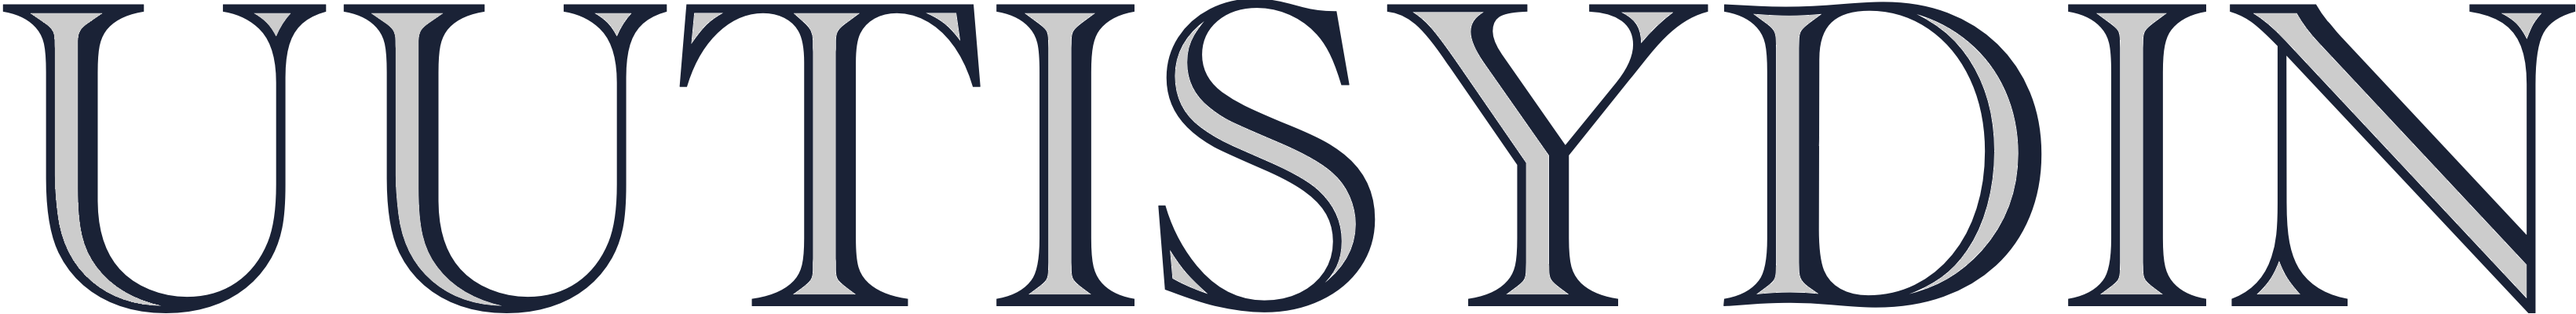
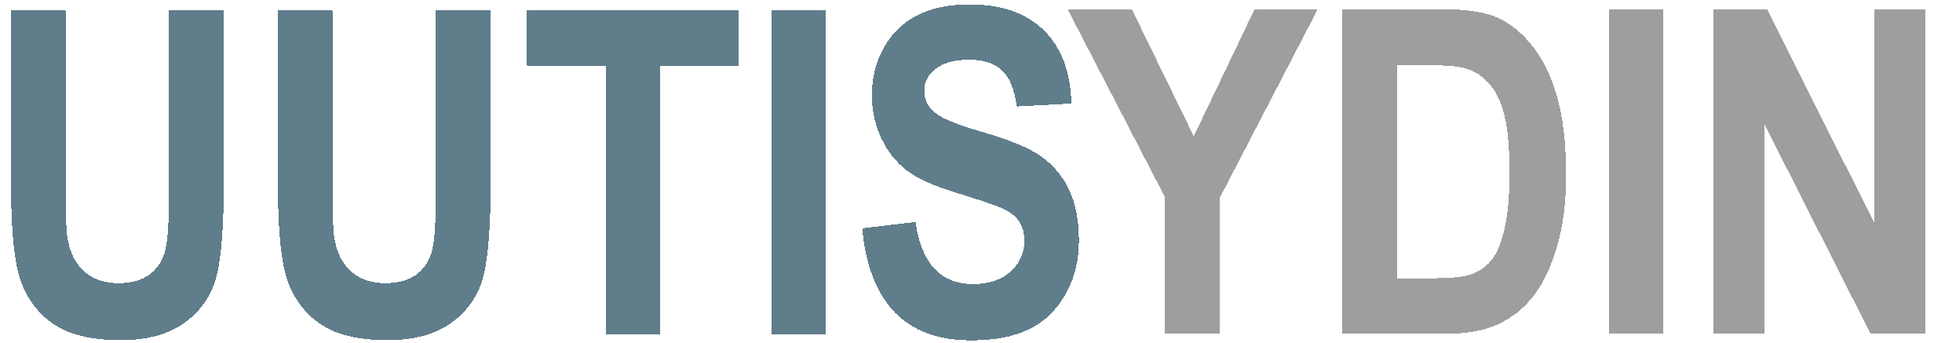
edit logotext, edit coloring

diff --git a/lib/main.dart b/lib/main.dart
@@ -17,7 +17,7 @@ class App extends StatelessWidget {
       debugShowCheckedModeBanner: false,
       title: 'Uutisydin',
       theme: ThemeData(
-        colorScheme: ColorScheme.fromSeed(seedColor: const Color(0xFF607D8B)),
+        colorScheme: ColorScheme.fromSeed(seedColor: const Color(0xFF607D8B), dynamicSchemeVariant: DynamicSchemeVariant.vibrant),
       ),
       home: const Home(),
     );
@@ -167,9 +167,9 @@ class _HomeState extends State<Home> {
   Widget build(BuildContext context) {
     return Scaffold(
       appBar: AppBar(
-        backgroundColor: Theme.of(context).colorScheme.onSecondary,
-        elevation: 3.0,
-        shadowColor: Theme.of(context).colorScheme.onSecondary,
+        backgroundColor: Theme.of(context).colorScheme.surface,
+        surfaceTintColor: Theme.of(context).colorScheme.surface,
+        shadowColor: const Color.fromARGB(26, 158, 158, 158),
         title:
             _isSearching
                 ? TextField(
